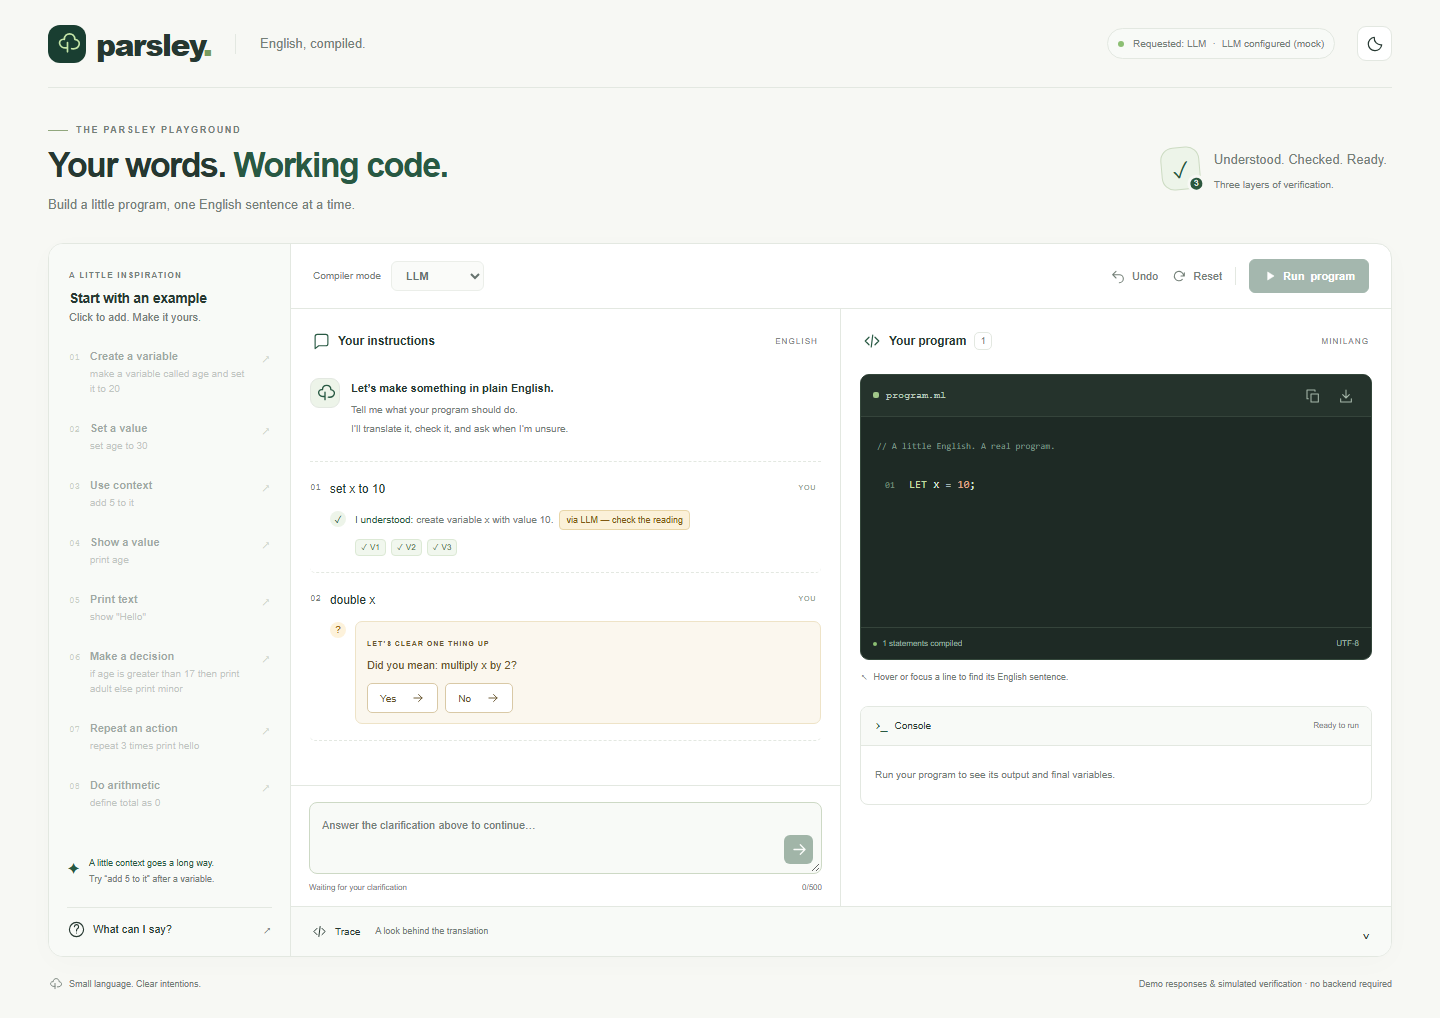
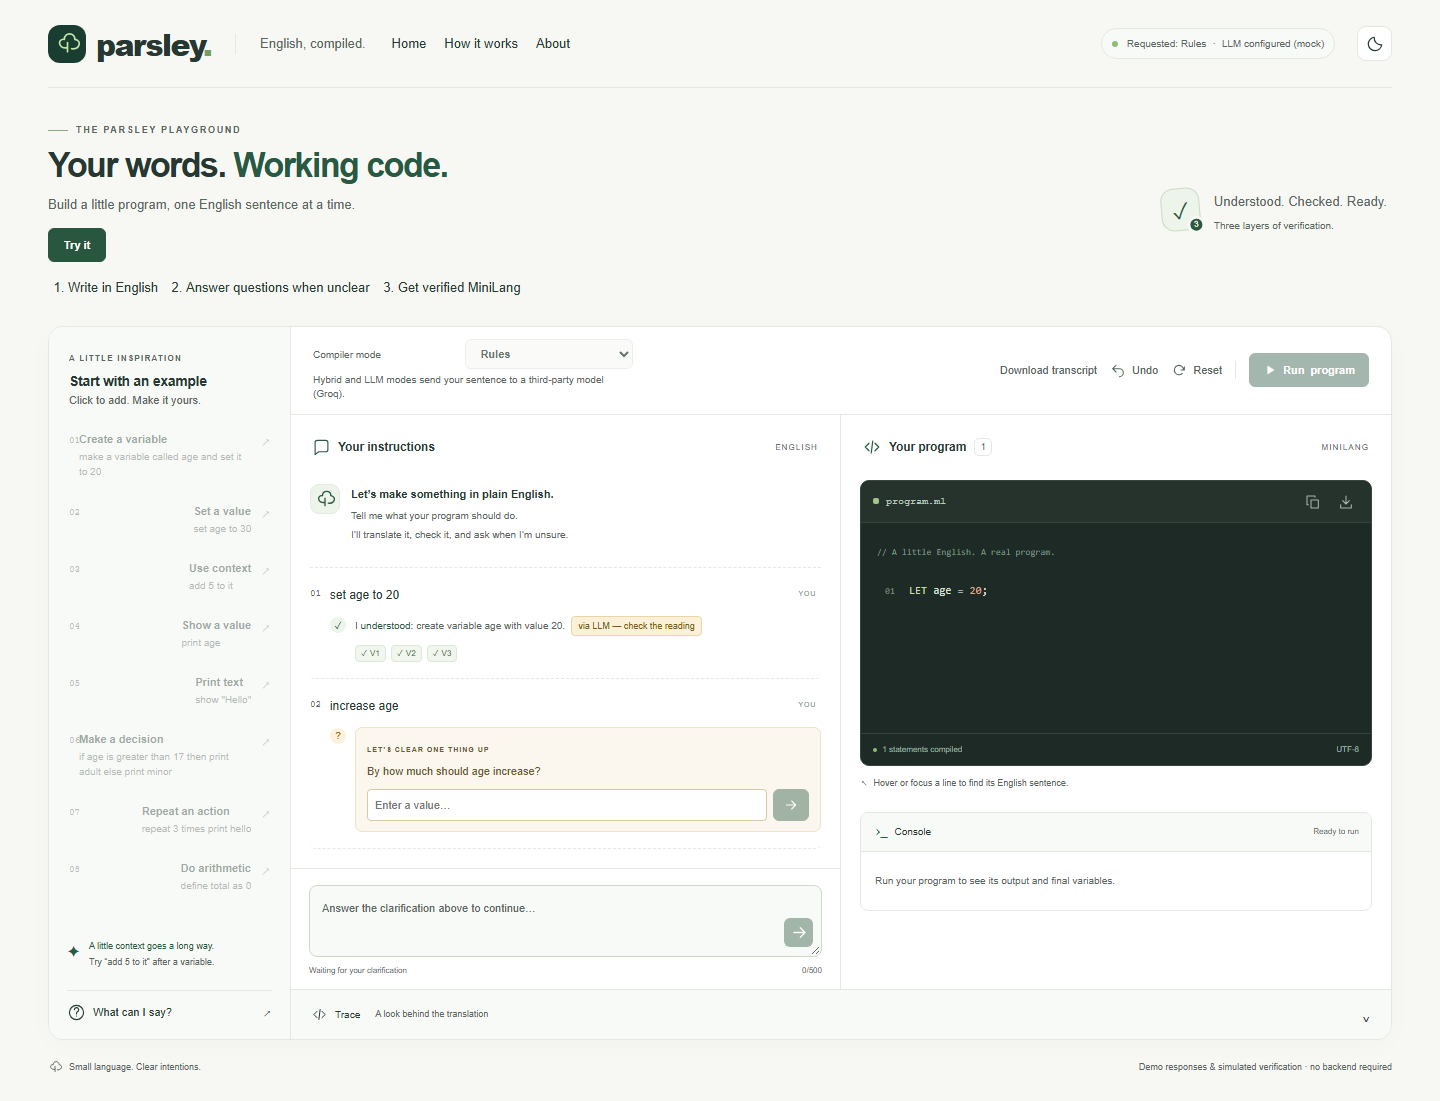
docs(web): document playground and refresh screenshots

diff --git a/web/README.md b/web/README.md
@@ -2,12 +2,34 @@
 
 React + Vite + strict TypeScript, plain CSS. All frontend code, tests and artifacts live under `web/`; the Python compiler is untouched.
 
+## Quick start with Docker
+
+From the repository root, run `docker compose up --build`, then open <http://localhost:8080>. The real API runs behind nginx. Live demo: **link coming soon**.
+
+For LLM modes, copy the root `.env.example` to `.env` and set `PARSLEY_LLM_PROVIDER`, the model and its API key. For Groq use `PARSLEY_LLM_PROVIDER=openai`, `PARSLEY_LLM_BASE_URL=https://api.groq.com/openai/v1`, `PARSLEY_LLM_MODEL=<model>`, and `PARSLEY_LLM_API_KEY=<key>`. Restart the API container after changes. The root `.env` is supplied at runtime; do not place credentials in `VITE_*` variables.
+
+## Run without Docker
+
+In one terminal at the repository root, run `pip install -e ".[web]"` and `python -m parsley.web --port 8000`. In another terminal run `cd web`, `npm ci`, and `npm run dev`. Set `VITE_USE_MOCK=false` and `VITE_API_URL=http://localhost:8000` in `web/.env.local` before starting Vite, then open <http://127.0.0.1:5173>. The default is the browser mock; it simulates compiler results and LLM readings.
+
+The workspace offers separate downloads for the MiniLang program and the session transcript. The transcript includes English, readings, code, clarification exchanges and diagnostics. Sessions are held in memory and are reset on refresh.
+
+## New screenshots
+
+| View                                     | Desktop                                          | Mobile                                          |
+| ---------------------------------------- | ------------------------------------------------ | ----------------------------------------------- |
+| Home                                     | [Home](screenshots/home-desktop.png)             | [Home](screenshots/home-mobile.png)             |
+| Workspace with clarification and LLM tag | [Workspace](screenshots/workspace-desktop.png)   | [Workspace](screenshots/workspace-mobile.png)   |
+| How it works                             | [Pipeline](screenshots/how-it-works-desktop.png) | [Pipeline](screenshots/how-it-works-mobile.png) |
+
+These screenshots use the deterministic mock. The Playwright axe test checks home, workspace, How it works and About for serious or critical violations at both viewport sizes.
+
 ## Run locally
 
 Requires Node.js 22.12+ and npm. In this checkout:
 
 ```powershell
-cd C:\Parsley_web_frontend\web
+cd web
 npm ci
 npm run dev
 ```
@@ -38,11 +60,11 @@ VITE_API_URL=http://localhost:8000
 
 Set `VITE_USE_MOCK=true` for the demo. An absent setting also selects the mock. `VITE_API_URL` is the backend origin, without `/api`; leave it empty to use the frontend origin. A backend on a different origin must allow this frontend origin through CORS. These are public build settings; do not put secrets in them.
 
-The compile contract and new health route are documented in [API_CONTRACT.md](API_CONTRACT.md). The client uses POST JSON for mutations and GET for health and program queries. Switching transports does not change components. Sessions are created on page load; refreshing starts a new session. The HTTP adapter is tested with fetch stubs and browser-local API fixtures; a live backend is not part of this branch.
+The compile contract and health route are documented in [API_CONTRACT.md](API_CONTRACT.md). The client uses POST JSON for mutations and GET for health and program queries. Switching transports does not change components. Sessions are created on page load; refreshing starts a new session. Browser tests can also run against the real backend.
 
 The health pill reports LLM configuration, with version/provider/model in its tooltip. The required health response has no mode field: the pill honestly labels the selected compile mode as **Requested**. If the backend supplies the optional `mode` extension, it shows **Backend** mode instead. Mock health identifies the simulated provider and model.
 
-Accepted LLM readings carry an inline amber **via LLM — check the reading** tag next to V1. W510–W514 diagnostics appear in trace and a polite, dismissible toast that closes after ten seconds; warnings never block input or use error styling. For `derived_value` questions the controls are always Yes and No, even if the backend omits option labels. In the mock, select LLM or Hybrid, send `set x to 10`, then `double x`: **Did you mean: multiply x by 2?** Yes appends the multiplication; No leaves the program unchanged. No real LLM or compiler verification runs in mock mode.
+Accepted LLM readings carry an inline amber **via LLM — check the reading** tag next to V1. W510–W515 diagnostics appear in trace and a polite, dismissible toast that closes after ten seconds; warnings never block input or use error styling. When health reports no remaining LLM budget, a banner says the model is paused and rules are used. For `derived_value` questions the controls are always Yes and No, even if the backend omits option labels. In the mock, select LLM or Hybrid, send `set x to 10`, then `double x`: **Did you mean: multiply x by 2?** Yes appends the multiplication; No leaves the program unchanged. No real LLM or compiler verification runs in mock mode.
 
 HTTP requests have a 30-second deadline. Backend-down and gateway errors give connection guidance; 429 responses show `Retry-After` seconds or date guidance without automatic resubmission. Overlength input stays editable and is blocked before any API call; the 500-character limit counts Unicode code points, matching Python.
 
@@ -70,7 +92,7 @@ The eight sidebar examples come from `LANGUAGE_SPEC.md` sections 4 and 6. Variab
 
 ## Screenshots
 
-Playwright regenerates [desktop](screenshots/workspace-desktop.png) and [mobile](screenshots/workspace-mobile.png) screenshots showing an accepted LLM-tagged reading alongside a pending derived-value clarification. These are review artifacts, not pixel snapshot assertions. Tests run a mock Vite server on port 5173 and a real-HTTP-adapter Vite server on port 5174; browser route fixtures supply the latter's API, so no Python backend or provider keys are needed.
+Playwright regenerates [desktop](screenshots/workspace-desktop.png) and [mobile](screenshots/workspace-mobile.png) screenshots showing an accepted LLM-tagged reading alongside a pending clarification. These are review artifacts, not pixel snapshot assertions. Tests run a mock Vite server on port 5173 and a real-HTTP-adapter Vite server on port 5174; browser route fixtures supply the latter's API, so no Python backend or provider keys are needed.
 
 ## Docker
 
@@ -113,7 +135,7 @@ The API comes from `src/parsley/web/`, and Docker Engine must be running. See [d
 | `BACKEND_PLAN.md`, `BACKEND_VERIFICATION.md`                                                    | Follow-up plan, exact results and changed-file list                   |
 | `../docker/`, `../docker-compose.yml`, `../.github/workflows/web.yml`                           | Containers, runtime configuration and CI                              |
 
-The requested branch is `web-frontend`, based on `main` at `b7ed07c`, in the worktree `C:\Parsley_web_frontend`. This follow-up changes only `web/`, new Docker/workflow files, and the explicitly requested root `docker-compose.yml`. No push, merge, rebase or git reset was performed. Current checks and the complete follow-up file list are in [BACKEND_VERIFICATION.md](BACKEND_VERIFICATION.md).
+Historical frontend integration notes are in [BACKEND_VERIFICATION.md](BACKEND_VERIFICATION.md).
 
 ## Browser tests against the real API
 

diff --git a/README.md b/README.md
@@ -315,6 +315,44 @@ Good to know:
 
 ## Web API
 
+### Web playground
+
+From the repository root, start the real API and website with Docker:
+
+```sh
+docker compose up --build
+```
+
+Open <http://localhost:8080>. To run without Docker, install Python 3.11+ and
+Node.js 22.12+, then start the API and frontend in separate terminals:
+
+```sh
+pip install -e ".[web]"
+python -m parsley.web --port 8000
+```
+
+```sh
+cd web
+npm ci
+npm run dev
+```
+
+Set `VITE_USE_MOCK=false` and `VITE_API_URL=http://localhost:8000` in
+`web/.env.local` before starting Vite to connect to the real API. For optional
+LLM modes, copy `.env.example` to the repository root `.env` and configure a
+provider and key as described below. Docker passes this file to the API at
+runtime; never put keys in frontend settings. Select Hybrid or LLM in the
+workspace. Sessions are in memory; download the MiniLang and transcript before
+leaving the page. Live demo: **link coming soon**.
+
+See [the web guide](web/README.md) for screenshots and the browser checks.
+
+![Parsley playground on desktop](web/screenshots/home-desktop.png)
+
+[Mobile home](web/screenshots/home-mobile.png) ·
+[Workspace with clarification](web/screenshots/workspace-desktop.png) ·
+[How it works](web/screenshots/how-it-works-desktop.png)
+
 An optional HTTP API backs the web frontend. It needs the `web` extra:
 
 ```
